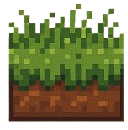
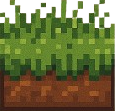
TileMap toegevoegd
-TileMap toegevoegd
-Sprites bijgeknipt

diff --git a/src/main/java/org/example/entities/map/GrassTilemap.java b/src/main/java/org/example/entities/map/GrassTilemap.java
@@ -1,0 +1,41 @@
+package org.example.entities.map;
+
+import com.github.hanyaeger.api.scenes.TileMap;
+
+public class GrassTilemap extends TileMap {
+
+//    public GrassTilemap() {}
+
+    @Override
+    public void setupEntities() {
+        addEntity(1, GrassBlock.class, "tiles/grasBlock_HighGras.png");
+        addEntity(2, GrassBlock.class, "tiles/grasBlock_LowGras.png");
+        addEntity(3, GrassBlock.class, "tiles/grasRampUp.png");
+        addEntity(4, GrassBlock.class, "tiles/grasRampDown.png");
+        addEntity(5, GrassBlock.class, "tiles/smallGrasBlock_LowGras.png");
+        addEntity(6, GrassBlock.class, "tiles/dirtBlock.png");
+    }
+
+
+    @Override
+    public int[][] defineMap() {
+        return new int[][]{
+                {0, 0, 0, 0, 0, 0, 0, 0, 0, 0, 0, 0, 0, 0, 0, 0, 0, 0, 0},
+                {0, 0, 0, 0, 0, 0, 0, 0, 0, 0, 0, 0, 0, 0, 0, 0, 0, 0, 0},
+                {0, 0, 0, 0, 0, 0, 0, 0, 0, 0, 0, 0, 0, 0, 0, 0, 0, 0, 0},
+                {0, 0, 0, 0, 0, 0, 0, 0, 0, 0, 0, 0, 0, 0, 0, 0, 0, 0, 0},
+                {0, 0, 0, 0, 0, 0, 0, 0, 0, 0, 0, 0, 0, 0, 0, 0, 0, 0, 0},
+                {0, 0, 0, 0, 0, 0, 0, 0, 0, 0, 0, 0, 0, 0, 0, 0, 0, 0, 0},
+                {0, 0, 0, 0, 0, 0, 0, 0, 0, 0, 0, 0, 0, 0, 0, 0, 0, 0, 0},
+                {0, 0, 0, 0, 0, 0, 0, 0, 0, 0, 0, 0, 0, 0, 0, 0, 0, 0, 0},
+                {0, 0, 0, 0, 0, 0, 0, 0, 0, 0, 0, 0, 0, 0, 0, 0, 0, 0, 0},
+                {0, 0, 0, 0, 0, 0, 0, 0, 0, 0, 0, 0, 0, 0, 0, 0, 0, 0, 0},
+                {0, 0, 0, 0, 0, 0, 0, 0, 0, 0, 0, 0, 0, 0, 0, 0, 0, 0, 0},
+                {0, 0, 0, 0, 0, 0, 0, 0, 0, 1, 1, 1, 0, 0, 0, 0, 0, 0, 0},
+                {0, 0, 0, 0, 0, 0, 0, 0, 0, 0, 0, 0, 0, 0, 0, 0, 0, 0, 0},
+                {0, 0, 0, 0, 0, 0, 0, 5, 0, 0, 0, 0, 5, 0, 0, 0, 0, 0, 0},
+                {2, 2, 2, 2, 2, 2, 2, 2, 2, 2, 2, 2, 2, 2, 2, 2, 2, 2, 2},
+                {6, 6, 6, 6, 6, 6, 6, 6, 6, 6, 6, 6, 6, 6, 6, 6, 6, 6, 6},
+        };
+    }
+}

diff --git a/src/main/java/org/example/scenes/GameScene.java b/src/main/java/org/example/scenes/GameScene.java
@@ -2,9 +2,12 @@ package org.example.scenes;
 
 import com.github.hanyaeger.api.Coordinate2D;
 import com.github.hanyaeger.api.scenes.DynamicScene;
+import com.github.hanyaeger.api.scenes.TileMap;
+import com.github.hanyaeger.api.scenes.TileMapContainer;
 import org.example.GoatQuest;
+import org.example.entities.map.GrassTilemap;
 
-public class GameScene extends DynamicScene {
+public class GameScene extends DynamicScene implements TileMapContainer {
 
     private GoatQuest goatQuest;
 
@@ -20,5 +23,11 @@ public class GameScene extends DynamicScene {
     @Override
     public void setupEntities() {
 
+    }
+
+    @Override
+    public void setupTileMaps() {
+        var GrassTileMap = new GrassTilemap();
+        addTileMap(GrassTileMap);
     }
 }

diff --git a/src/main/java/org/example/entities/map/GrassBlock.java b/src/main/java/org/example/entities/map/GrassBlock.java
@@ -1,0 +1,21 @@
+package org.example.entities.map;
+
+import com.github.hanyaeger.api.Coordinate2D;
+import com.github.hanyaeger.api.Size;
+import com.github.hanyaeger.api.entities.Collided;
+import com.github.hanyaeger.api.entities.Collider;
+import com.github.hanyaeger.api.entities.impl.SpriteEntity;
+
+import java.util.List;
+
+public class GrassBlock extends SpriteEntity implements Collided, Collider {
+
+    public GrassBlock(Coordinate2D location, Size size, String name) {
+        super(name, location, size);
+    }
+
+    @Override
+    public void onCollision(List<Collider> list) {
+
+    }
+}

diff --git a/src/main/java/module-info.java b/src/main/java/module-info.java
@@ -2,6 +2,7 @@ module Goat.Quest {
     requires hanyaeger;
 
     exports org.example;
+    exports org.example.entities.map;
 
     opens decoration;
     opens goatSprite;
